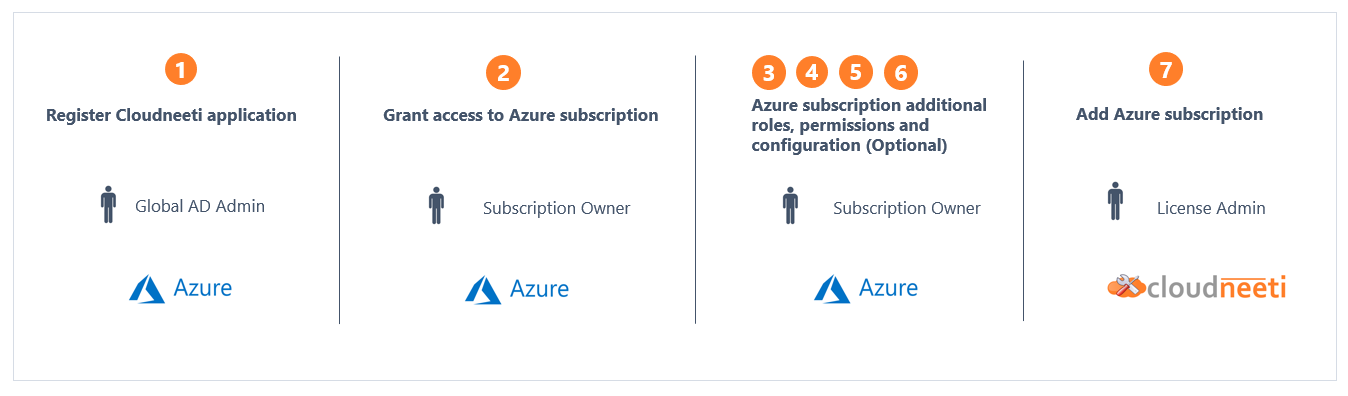
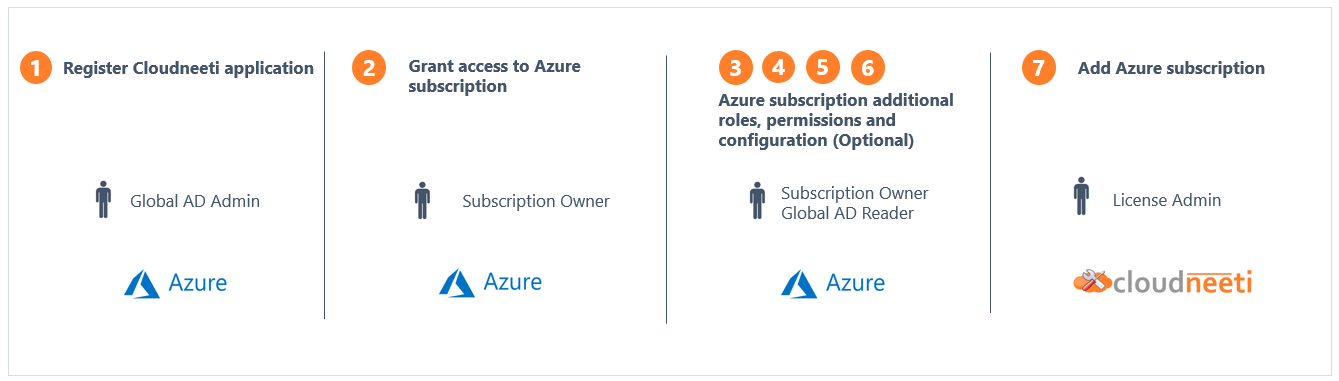
Task 13931 : Split Azure onboarding, add IAM policy configurations

diff --git a/docs/onboardingGuide/azureSubscriptions.md b/docs/onboardingGuide/azureSubscriptions.md
@@ -35,7 +35,7 @@ The following steps are required to onboard Microsoft Azure to the Cloudneeti ap
 | 2  | Grant access to Azure subscription        | Microsoft Azure| Subscription Owner      | mandatory | 0            |
 | 3  | Grant access to Azure subscription additional roles | Microsoft Azure| Subscription Owner           | optional  | 39            |
 | 4 | Grant access to key vaults                | Microsoft Azure| Subscription Owner          | optional  | 1            |
-| 5 | Advance Security configuration            | Microsoft Azure| Subscription Owner          | optional  | 18            |
+| 5 | Advance Security configuration            | Microsoft Azure| Subscription Owner, Global AD Reader          | optional  | 18            |
 | 6 | Configure quick wins                      | Microsoft Azure| Subscription Owner           | optional  | 137            |
 | 7 | Add Azure subscription                    | Cloudneeti     | License Admin           | mandatory | 0            |
 
